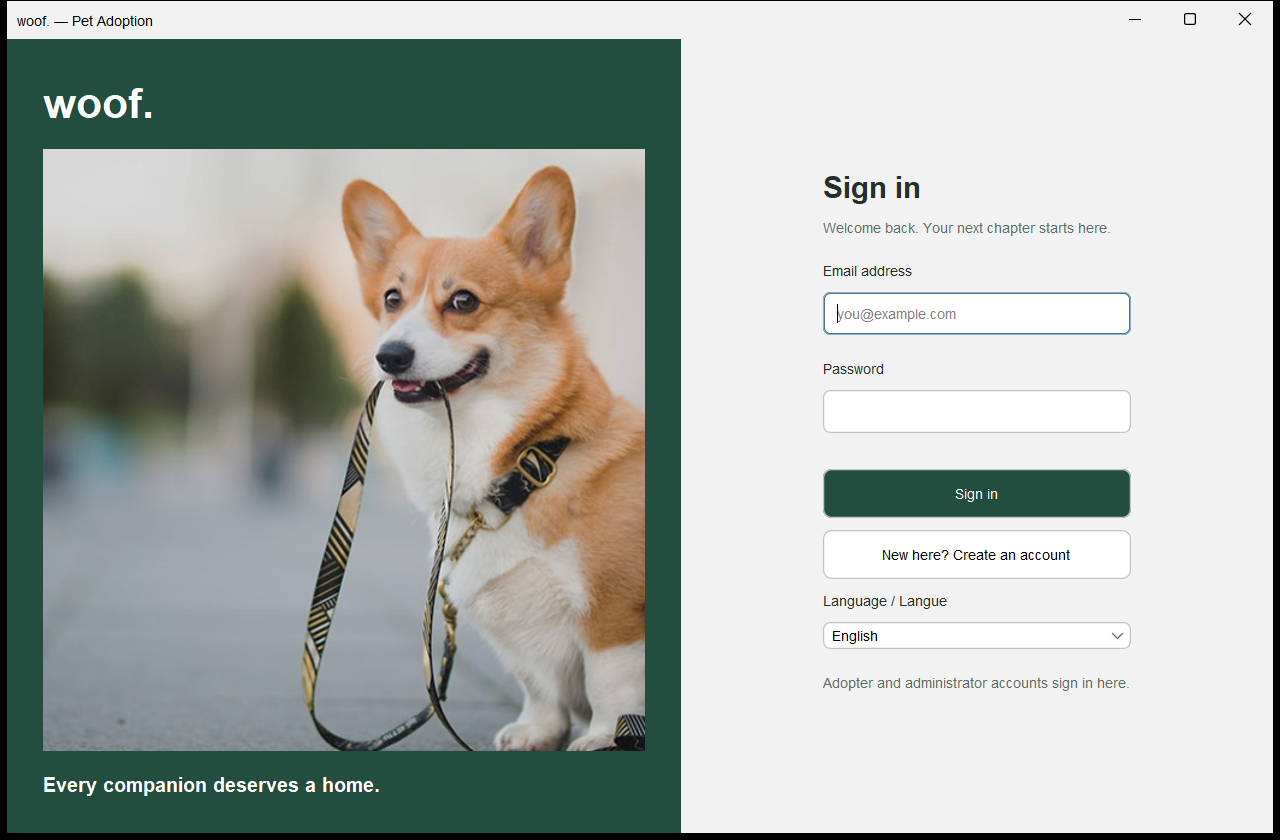
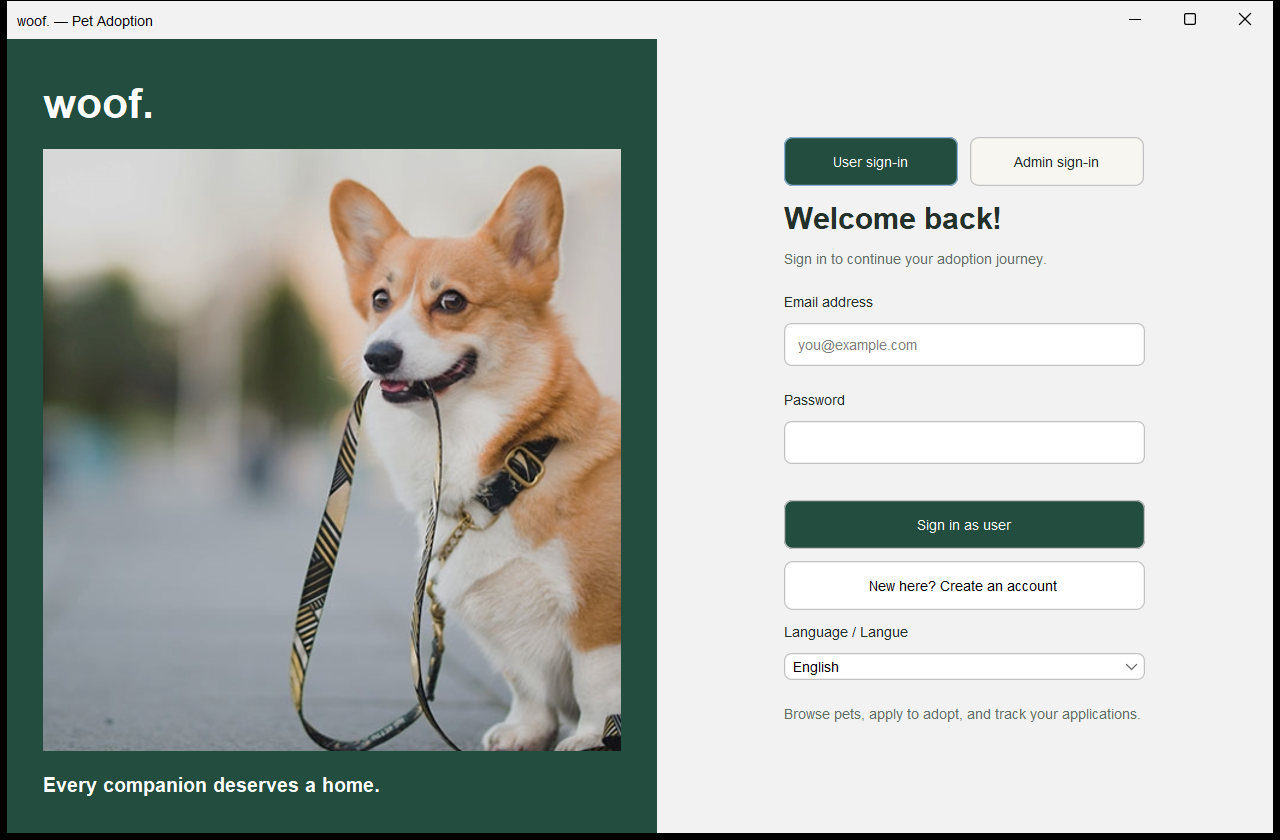
docs: document role-specific sign-in workflows

diff --git a/README.md b/README.md
@@ -28,9 +28,11 @@ NetBeans run/debug/profile actions and the executable JAR use `Application`. `Lo
 
 ## Workflows
 
-**Adopter:** register → sign in → browse/search/filter → inspect pet details → submit an application with care consent → follow its status → withdraw a pending request or view/export/print an approved adoption receipt. Edit name/phone and change password in My profile.
+**Adopter:** choose **User sign-in** → register or sign in → browse/search/filter → inspect pet details → submit an application with care consent → follow its status → withdraw a pending request or view/export/print an approved adoption receipt. Edit name/phone and change password in My profile.
 
-**Administrator:** sign in → review dashboard → manage catalog and individual pets → review application details and approve/reject with a note → manage supply quantities with a reason → manage account roles/activation → generate and export/print reports. Self-demotion/deactivation is disallowed. Pets with completed adoptions cannot be silently returned to availability.
+**Administrator:** choose **Admin sign-in** → sign in with an administrator account → review dashboard → manage catalog and individual pets → review application details and approve/reject with a note → manage supply quantities with a reason → manage account roles/activation → generate and export/print reports. Self-demotion/deactivation is disallowed. Pets with completed adoptions cannot be silently returned to availability.
+
+The selected sign-in role must match the account's database role. Choosing Admin does not grant permissions. Public registration creates User accounts only; administrators provision additional administrator accounts through People & access. For the first administrator on a new database, use the bootstrap command below.
 
 One pending application per adopter preserves the legacy one-at-a-time rule. Approval is the completion boundary: it creates an adoption and marks the pet adopted atomically, then rejects competing pending applications for that pet. There is no separate payment or physical-handover subsystem.
 

diff --git a/docs/SCREENSHOTS.md b/docs/SCREENSHOTS.md
@@ -1,10 +1,14 @@
 # UI review captures
 
-These images show real Swing screens backed by an isolated PostgreSQL test database. Names and counts are test fixtures; production screens query their configured database. Full captures (20 states) are available locally under `.local/screenshots`.
+These images show real Swing screens backed by an isolated PostgreSQL test database. Names and counts are test fixtures; production screens query their configured database. Full captures (21 states) are available locally under `.local/screenshots`.
 
-## Sign in
+## User sign-in
 
 ![Sign in](screenshots/login.png)
+
+## Admin sign-in
+
+![Admin access with a separate role selection](screenshots/admin-login.png)
 
 ## Administrator dashboard
 
